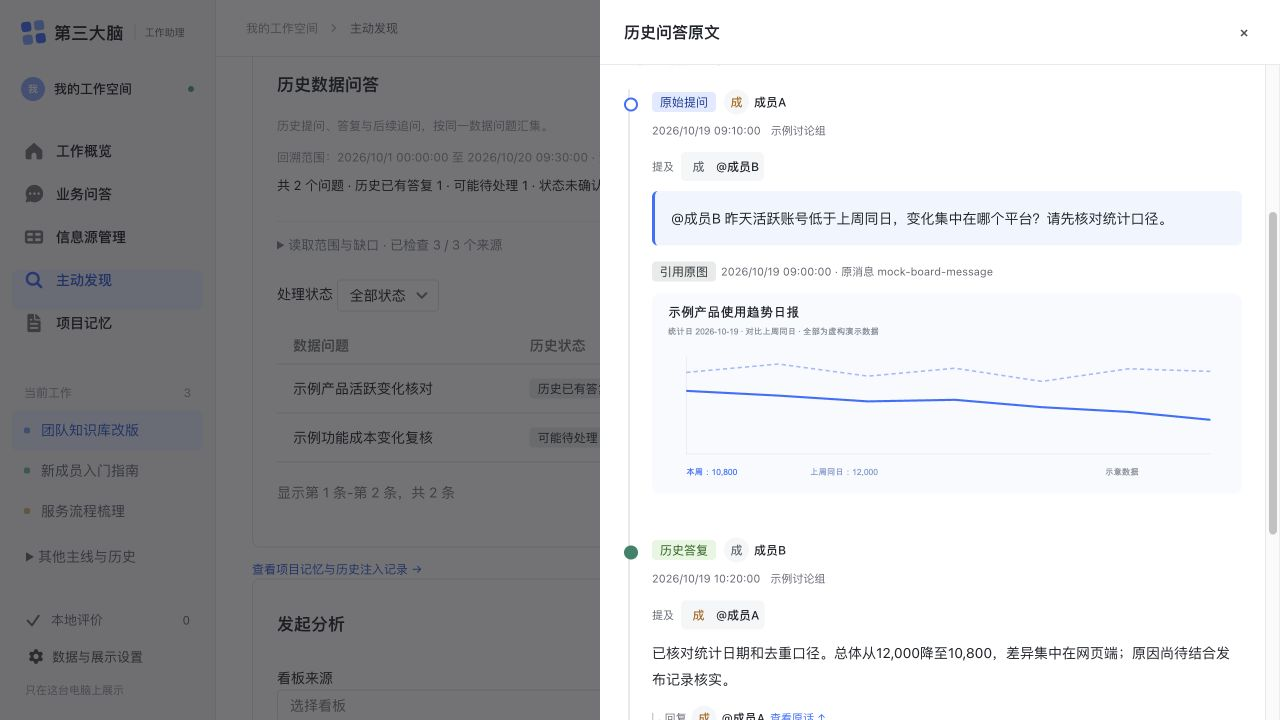
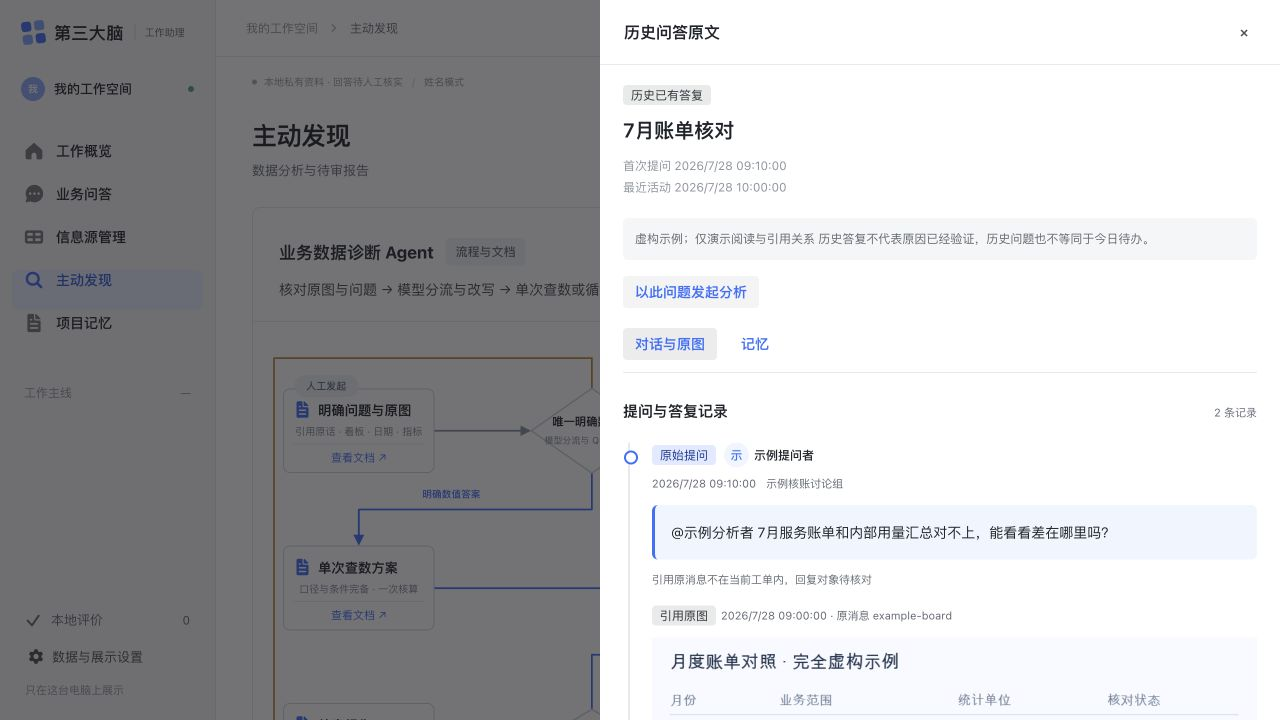
docs: explain work delegation and ticket memory with grounded examples

diff --git a/README.md b/README.md
@@ -4,17 +4,21 @@
 
 本仓库提供可独立安装的本地工作台。默认启动工作概览、业务问答、信息源管理、主动发现和项目记忆五个页面，采用与个人版一致的界面与通用运行引擎。每位安装者配置自己的授权、数据源和模型；仓库不包含维护者的业务记录。见[安装与能力范围](docs/WORKBENCH.md)。
 
-## 从什么问题出发
+## 为什么做第三大脑
 
-**事情推进到哪里了？这个指标为什么变了？** 答案经常跨越几次对话、一份交接文档、当天的看板图片和后来的回复。全量堆给模型会增加噪声和成本，只看近期卡片又会丢掉历史。
+我想让 AI 分身先承担反复查找、核对和整理已有信息的工作，把注意力留给需要本人判断和推进的事。选取 9 月一个自然周，从个人文档和办公聊天中识别出 **29 件新事项，其中 12 件（41.4%，约四成）**主要依赖已有事实、规则或数据。这些是第三大脑优先尝试承接的环节：查资料、对口径、整理进展并准备有依据的草稿；新的业务取舍与责任承诺留给人。
 
-第三大脑因此从一个全知的个人分身，收敛为两个具体角色：
+![一个自然周的29件事项：被动型12件、主动型9件、混合型8件](docs/assets/work-composition.png)
+
+样本包含 28 件他人提请和 1 件本人主动拆解。图中“主动／被动”指处理性质，与谁先发消息无关；**41.4% 是候选事项占比，不代表已实现自动化率或工时节省。** [查看分类口径](docs/product/work-composition.md)。
+
+**事情推进到哪里了？这个指标为什么变了？** 答案经常跨越几次对话、一份交接文档、当天的看板图片和后来的回复。第三大脑先把 AI 分身落到两个主要角色，并保留找人这个辅助入口：
 
 | 角色 | 交付 | 当前边界 |
 | --- | --- | --- |
 | 工作进展助理 PMO | 当前进展、跟进对象、卡点及待确认事项，逐项有依据 | 催办、对外发送和冲突裁决由用户确认 |
 | 数据诊断助理 DA | 明确查询、核对变化、按需下钻、形成待审报告 | 简单问题走短流程；归因需要事实，不能仅凭相关性断言 |
-| 找人和组织协作 | 谁负责、应找谁 | 依赖准确组织资料，暂不承诺完整覆盖 |
+| 辅助：找人和组织协作 | 谁负责、应找谁 | 依赖准确组织资料，暂不承诺完整覆盖 |
 
 ## 设计理念
 
@@ -38,9 +42,8 @@ flowchart TB
     D --> H[历史问数工单与分析上下文]
     H --> I[数据诊断 Agent]
     I --> J[待审报告与未解决项]
-    H --> K[有来源、版本和适用时间的项目 Memory]
+    H --> K[提取为七段方法卡：保留来源、版本和适用条件]
     K --> I
-    J -.用户核对后提炼候选经验.-> K
     E --> L[原文证据与已配置的归档入口]
 ```
 
@@ -54,32 +57,69 @@ flowchart TB
 
 数据诊断时，Agent在查证阶段完成标准Query改写、德普只读取数和结果核验；能回答原问题就形成待审报告，仍有可验证的假设则继续下钻，缺少口径或业务事实时请用户补充。最多三轮、三次查数，并受预算和权限限制。原话、引用原图、实际查询与结果分别保留。
 
-## 判断模型的分工
+## 当前模型与程序怎样分工
 
-个人原型中的三个判断节点使用火山方舟 System One API（beta），模型为 `doubao-seed-2-1-lite-260915`。
+公开版按安装者实际配置运行，不把个人实验中的模型切换当作默认接入能力。
 
-| 节点 | Decision负责 | 保留的边界 |
+| 环节 | 当前公开实现 | 保留的边界 |
 | --- | --- | --- |
-| Query分流 | 对象、指标、周期、比较和目标是否明确；简单/复杂/需补充 | 原模型继续改写Query；程序检查来源、日期和查询方案兼容性 |
-| 文档实质内容 | 已读正文有实质、为空白模板、还是覆盖不足 | 先检查授权与hash，不改变业务相关性准入，节选不足不判全文为空 |
-| Memory适用性 | 判断有限候选是否适用并排序，选择注入 | 来源授权、版本、时效、冲突和数量大小限制不可放宽 |
+| Query 分流与改写 | 诊断模型在同一轮规划中判断完整性、简单／复杂路线，并改写标准自然语言 Query | 程序检查引用对象、日期和已授权查询方案；缺必要条件就补充 |
+| 文档准入与更新 | 程序检查来源准入、授权、版本和正文哈希 | 没有默认启用独立 Decision 语义判空；读取失败不当作没有内容 |
+| Memory 召回 | 本地程序按方向、关键词和文本重合等线索筛选有限方法 | 来源、版本、时效、冲突和长度限制先行；当前没有独立 Decision 二次重排或向量检索 |
+| 查数与复核 | 只读工具返回实际结果，诊断模型检查能否回答原问题 | 报告仍有缺口时继续查证或找人补充，不能用高置信度替代证据 |
 
-群监听准入、主线关联与优先级、开放新主线发现、Loop完结判断、报告盲评、事实问答和生成模型未在这一轮切换。Decision失败不自动换模型。业务用户上传文档进入何种技能的分流不在本次范围。
+个人试验做过 Decision 等模型的影子对照；这些试验不代表每位安装者已经接入同样的模型。当前工单记忆提取使用 DeepSeek，记忆管理由第三大脑本地模块完成，具体见下文。
 
-## Memory 的复用路径
+## 从工单积累可复用的方法
+
+Memory 是给下一次分析准备的经验卡。模型从历史提问和答复中提炼“怎么回答”，第三大脑按方向保存、查找，并在相关问题中把方法带入 Query 改写与结果复核。历史金额、旧结论和当前数据分开，复用方法时仍要重新查本期数据。
+
+以完全虚构的案例说明：7 月核对某服务账单时，答复留下了对齐周期、拆分用量与单价、单列调整项的分析顺序。8 月再遇到同方向问题，就可以参考这个顺序，不必从一张白纸开始。
 
 ```mermaid
-flowchart LR
-    A[历史问题与实际交付] --> B[原文和确认反馈]
-    B --> C[候选口径、分析原则和日期事实]
-    C --> D[核验来源、版本、状态和生效时间]
-    D --> E[Decision判断当前问题适用性]
-    E --> F[带版本和哈希的参考Memory注入]
-    F --> G[下一次查询与报告]
-    G --> H[验证是否少追问、少调用且保持正确]
+flowchart TB
+    A[7月工单：提问与答复] --> B[DeepSeek 提取七段经验卡]
+    B --> C[第三大脑：本地分类保存]
+    D[8月：新的核账问题] --> E[第三大脑：查找相关方法]
+    C --> E
+    E --> F[带入 Query 改写与复核；重新查本期数据、形成报告]
+    M[Mem0：尚未接入] -.未来可替换部分管理与检索.-> C
+    classDef optional fill:#f5f5f5,stroke:#999,stroke-dasharray:5 5,color:#666
+    class M optional
 ```
 
-“收到”或“OK”不自动证明结论正确。历史数字不能当当前数字，后来答案不能泄漏到更早的回放。用户可查看项目Memory、依据和实际注入记录；从所有历史交付自动提炼可靠经验仍需继续验证。
+<details>
+<summary>展开一张七段 Memory：某服务每月账单核对（全部为虚构示例）</summary>
+
+**【原文】**
+
+提问者：“7 月服务账单和内部用量汇总对不上，差在哪里？”
+
+分析者：“先对齐结算周期和单位，再按资源类别核对用量、单价和费用。调整项单列，每项差异对应到凭据，未核实的先保留。”
+
+**【问题模式】** 同一服务的周期性账单核对：解释账单与内部用量汇总的差异。
+
+**【下次如何回答】**
+
+1. 对齐本期结算周期、服务范围和计费单位。
+2. 按相同资源类别核对用量、单价和费用。
+3. 单列折扣、冲正及跨月调整，区分已解释和待核实的差异。
+
+**【交付清单】** 可回查凭据的对照表，以及差异与缺失材料清单。
+
+**【适用条件】** 同一服务的周期核账，账单与用量能够对应。
+
+**【不能直接套用】** 不沿用 7 月金额、单价或差异原因；规则变化后先重核口径。
+
+**【仍需当前资料】** 8 月账单与用量明细、本期计费规则、调整记录。
+
+</details>
+
+这是上下文工程：给分析助手补上相关经验，而不是把上个月的答案当成这个月的结论。提取校验成功后自动生效；工单中可以查看本单产出、命中的方法和实际带入内容。当前提取由工单按钮触发，不是每次会话结束都会自动执行。
+
+**Mem0 在哪一环？当前没有接入。** 可以把模型想成“写经验卡的整理员”，把第三大脑本地模块想成“分类夹和目录”。现在两者已经负责抽取、保存、查找和注入；公开实现使用方向与关键词等线索召回，没有独立 Decision 重排或向量检索。将来若采用 Mem0，是替换部分记忆管理与检索模块的选项。
+
+已有周期方法对照入口可以展示有／无记忆的实际模型回答，但该入口指定带入上期记忆、未执行真实查数，只能比较方法，尚不能证明完整 Loop 的收益。见 [完整案例、实现分工与配置](docs/product/memory.md)。
 
 ## 产品界面
 
@@ -88,7 +128,7 @@ flowchart LR
 ![公开包默认工作台，无业务数据](docs/assets/installed-workbench.jpg)
 
 
-以下画面使用真实界面组件和完全虚构的 mock 数据截图；项目记忆更新于 2026 年 10 月 23 日，其余画面保留 10 月 21 日版本。项目、成员、看板曲线、查询结果、报告和记忆均为示意，没有连接办公数据、模型或查数服务。首次安装没有业务数据，显示空状态。主动发现、历史工单和 Memory 需要安装者配置自己的来源与存储，见[工作台配置](docs/WORKBENCH.md)。
+以下画面使用真实界面组件和完全虚构的 mock 数据截图；项目记忆与历史工单更新于 2026 年 10 月 24 日，其余画面保留 10 月 21 日版本。项目、成员、看板曲线、查询结果、报告和记忆均为示意，没有连接办公数据、模型或查数服务。首次安装没有业务数据，显示空状态。主动发现、历史工单和 Memory 需要安装者配置自己的来源与存储，见[工作台配置](docs/WORKBENCH.md)。
 
 ### 工作概览
 
@@ -134,6 +174,10 @@ flowchart LR
 
 ![项目记忆：七段经验卡、方向分类与折叠原文的虚构示例](docs/product/assets/screenshots/memory.png)
 
+工单里的「记忆」页把本单产出、相关方法与分析时实际带入的内容分开查看。下面仍为虚构案例，没有伪造模型回答或注入记录。
+
+![工单记忆：虚构7月核账工单产出的七段经验](docs/product/assets/screenshots/ticket-memory.png)
+
 [截图范围与数据说明](docs/product/screenshots.md)。
 
 ## 如何评估
@@ -165,7 +209,7 @@ flowchart LR
 - 新版问答与富文本证据回查，来源关注档位和最多10条主线的展示；
 - 可配置的看板日期快照、引用原图、历史工单与回复时间线；
 - 标准 Query、简单/复杂分流、只读查数、复核与有限循环、待审报告；
-- 版本化分析规范、Memory 列表、适用性筛选及实际注入记录。
+- 版本化分析规范、七段 Memory、方向筛选及实际注入记录。
 
 后面三项使用真实通用引擎，必须配置安装者自己的本地文件、已授权查数方案和可用 MCP/模型；安装和浏览不会自动执行收费分析或生成虚构结果。详见[工作台能力与配置](docs/WORKBENCH.md)。
 
@@ -225,9 +269,9 @@ npm start
 ## 隐私边界
 
 - `.env.local`、`.runtime/`、日志和本地数据均被 Git 忽略；
-- 本地凭证、消息与分析结果使用 AES-256-GCM 加密后落盘，文件权限限制为当前用户；
+- OAuth 凭证、导入消息及其分析结果在导入工作区使用 AES-256-GCM 加密；扩展工单、Memory、原图和刷新回执另存本地文件，当前不经过该加密存储，详见隐私说明；
 - 本地加密主要防止误上传和明文泄漏，不能抵御已经控制该电脑账户的恶意程序；
-- 点击“分析”意味着所选消息会发送至安装者配置的模型 API；不点击则不会调用模型；
+- 安装、打开页面和浏览缓存不会调用模型；显式分析、提取／更新 Memory 等操作会把所需资料发送至相应配置的模型 API；
 - 每人必须使用自己的 WPS OAuth 和模型 Key。严禁共用维护者或其他同事的办公凭证。
 
 详见 [隐私说明](docs/PRIVACY.md)。
@@ -260,6 +304,6 @@ npm run release:gate -- --denylist /absolute/private/denylist.txt
 
 ### 会邀与文档更新
 
-新增独立的资料刷新入口：会邀补充工作安排，参会人的私聊先进入监控候选；会后检查记录，已准入文档按版本及正文哈希更新，日报、周报的图片另存本地并记录识别覆盖。网页“来源”可加载本地回执并查看原图。未核实关联和未读图片会保留待处理状态。
+新增独立的资料刷新入口：会邀补充工作安排，参会人的私聊先进入监控候选；会后检查记录，已准入文档按版本及正文哈希更新，日报、周报的图片另存本地并记录识别覆盖。网页“信息源管理”可加载本地回执并查看原图。未核实关联和未读图片会保留待处理状态。
 
 见 [接入说明与验收边界](docs/product/calendar-document-context.md)。该入口需单独配置日历及云文档连接，默认不执行付费图片理解；原有 Alpha 群聊分析范围保持明确，不自动发布会议结论或 Memory。

diff --git a/docs/product/memory.md b/docs/product/memory.md
@@ -1,23 +1,111 @@
-# 工单记忆
+# 从工单留下下一次能用的经验
 
-把记忆想成一本按方向分隔的经验笔记：保留历史上怎样分析问题的方法，下一次遇到同方向或周期性问题时参考，再重新取得本期资料。
+Memory 在这里是一张“下次遇到类似问题，可以怎样回答”的经验卡。它把过去讨论中的分析顺序和适用条件留下来，把当时的金额、结论和待核对事项分开。后续问题可以借用方法，再重新查本期数据。
+
+**当前由 DeepSeek 按固定模板提取，第三大脑自己的本地模块负责保存、分类、查找和带入请求。Mem0 没有接入业务链路。** 可以把模型想成写卡片的整理员，把本地文件和查找程序想成分类夹与目录；当前这两部分已经能配合工作，不需要先安装 Mem0。
+
+## 一张经验卡是什么样
+
+下面用“某服务的 7 月、8 月账单核对”说明。对话、服务和步骤均为虚构示例，用来展示结构，不是历史工单的复述，也不代表已经执行过这次查询。
+
+<details>
+<summary>【原文】展开虚构的 7 月提问与答复</summary>
+
+**提问者：** 7 月服务账单和内部用量汇总对不上，能看看差在哪里吗？
+
+**分析者：** 我先统一结算月份、统计截止时间和计费单位，再按资源类别核对用量与单价。折扣、冲正和跨月调整单独列出，最后把每一项差异对应到凭据。尚未核实的项目先保留，不把差额直接当成漏记。
+
+原文作为依据保留；页面默认折叠，优先展示下面的方法。
+
+</details>
+
+### 【问题模式】
+
+同一服务每月需要把账单与内部用量汇总对齐，说明差异在哪里、哪些已解释、哪些仍需核实。
+
+### 【下次如何回答】
+
+1. 先对齐本期结算周期、截止时间、服务范围和计费单位，确认比较的是同一批数据。
+2. 按相同资源类别拆开用量、单价与费用，逐项建立对应关系。
+3. 将折扣、冲正和跨月调整分开核对，为差异标明依据，不从总额差异直接推断原因。
+4. 汇总已解释与未解释的差异，给出仍需补充的材料和下一步。
+
+### 【交付清单】
+
+- 一份可回查凭据的账单与用量对照表。
+- 一份区分“已解释”和“待核实”的差异清单。
+
+### 【适用条件】
+
+- 同一服务的周期性账单核对，且账单与用量能够对应。
+- 需要先解释核算差异，再讨论成本变化。
+
+### 【不能直接套用】
+
+- 不沿用 7 月的金额、单价、差异原因或“已经对齐”的结论。
+- 服务范围或计费规则变更时，先重新确认口径，不能直接照搬旧分类。
+
+### 【仍需当前资料】
+
+- 本期账单、用量明细与对应凭据。
+- 本期生效的计费规则，以及已发生的折扣、冲正和跨月调整。
+
+## 从 7 月用到 8 月，发生了什么
+
+8 月再问“这期账单为什么对不上”，系统先找同方向的经验。找到上面的卡片后，带入的是“先对齐周期和单位，再拆用量、单价和调整项”的方法，不是 7 月的答案。
 
 ```mermaid
 flowchart LR
- A[授权工单：提问、答复、引用原图] --> B[DeepSeek 整理七段经验卡]
- B --> C[来源与格式检查通过后自动生效]
- C --> D[按方向和问题找相关方法]
- D --> E[实际带入分析请求]
- E --> F[重新查本期数据并生成报告]
+    A[7 月工单：提问与答复] --> B[提取核账方法]
+    B --> C[按成本方向保存经验卡]
+    D[8 月问题与本期上下文] --> E[查找适用经验]
+    C --> E
+    E --> F[带入 Query 改写与结果复核]
+    G[8 月账单与当前口径] --> F
+    F --> H[在已授权范围查数并形成待审报告]
 ```
 
-七段固定为：原文、问题模式、下次如何回答、交付清单、适用条件、不能直接套用、仍需当前资料。原文默认折叠，方向包括成本核算与优化、指标监控与汇报、异常排查与口径，以及其他分析经验。方向辅助筛选，不授权访问新的数据源。
+这是一种上下文工程：让分析助手在需要时拿到少量、相关、有来源的方法。面对“成本为什么变化”这样更开放的问题，记忆可以帮助它提出查证顺序和缺失材料；当前原因仍需要新证据支持。
 
-成功提取且校验通过后自动成为可用方法，不需要人工逐条确认。格式不完整、引用不存在、来源撤销或调用状态不明时，不生成可用记忆。更新会保留旧版本；旧数值与当时事实不作为本期答案。Mem0 尚未接入实际业务，当前运行的是仓库内的本地模块，无需额外向量数据库。
+实际带入模型的参考块包含问题模式、所需输入、步骤、输出、适用边界和标准 Query 的参考结构。改写时再填入当前对象、统计周期、比较周期和已经核实的口径。该参考块作为 System Prompt 中的业务资料，不授予新工具或新查询权限；原图由上游模型理解，不表示原图已经上传给德普。
+
+## 现在是谁在做这些事
+
+| 环节 | 当前公开实现 |
+| --- | --- |
+| 读工单 | 沿已保存的提问、答复及明确的引用／回复关系读取；可加入已下载且核验过的原图 |
+| 抽取 | DeepSeek 按七段模板写经验卡，同时区分方法与当时事实 |
+| 保存和分类 | 第三大脑本地文件保存经验及版本；按成本、指标汇报、异常口径等方向组织 |
+| 召回 | 程序先检查来源、版本与时间，再按方向、关键词和文本重合线索排序，选取有限条目 |
+| 注入 | 每次分析请求前重新核验，将仍适用的方法带入 Query 改写及结果复核，保存实际带入内容 |
+| Mem0 | 未接入；当前包没有 Mem0 运行依赖，也没有业务读写或检索调用 |
+
+**本公开包的召回没有独立调用 Decision 做二次重排，也没有向量检索。** 方向分类能帮助浏览和初步查找，但不能保证理解所有同义表达或抽象问题。是否需要更强的召回，要用后续问题的测试集检验。
+
+将来如果采用 Mem0，可以考虑用它替换部分记忆管理与检索模块；七段结构、来源关联和本期数据核对仍需保留。这是可选设计，不是当前运行链路的一部分。
+
+```mermaid
+flowchart LR
+    A[现在：模型按七段写卡] --> B[现在：第三大脑本地保存与查找]
+    B --> C[现在：把方法带入分析请求]
+    B -. 可选替换部分管理与检索；尚未接入 .-> D[将来的 Mem0 接入方案]
+```
+
+## 在页面上怎么核对
+
+在历史工单的「记忆」页可以点击「提取／更新 Memory」。成功提取并通过来源、格式和引用检查后，方法自动生效，不再逐条等待人工确认；**这不等于每结束一次会话都会自动在后台提取**。没有可复用步骤时可以不生成记忆，失败或状态不明的输出不会变成可用方法。
+
+项目记忆页按方向展示经验卡，可以展开原文和原图、回到原工单。工单的「记忆」页将“本单产出”“找到的相关记忆”“分析时实际使用的记忆”分开显示。匹配不等于注入；有保存的实际带入内容并收到模型响应，才显示已使用。收到响应也不等于方法有效，仍要看最终回答。
+
+## 怎样验证它有没有帮助
+
+可用较早工单的记忆回答较晚、同方向的周期问题。比较有／无 Memory 时保持模型、原问题和当前证据一致，留出较晚工单后来的答复，避免提前看到答案。
+
+当前周期方法对照入口展示的是**指定带入上期记忆、没有执行查数工具的方法迁移试验**：它可以比较回答是否有更具体的分析顺序，不能证明自动召回准确，也不能证明账单已经核对完成或完整 Loop 成功率提高。完整 Loop 对照还需要同样的只读查数连接、本期数据与最终报告验收。
 
 ## 配置自己的数据
 
-在 `THIRD_BRAIN_WORKBENCH_CONFIG` 指定的仓库外文件中配置以下路径；所有路径都指向安装者自己的绝对路径，不能复制维护者数据。
+在 `THIRD_BRAIN_WORKBENCH_CONFIG` 指定的仓库外文件中配置以下路径；所有路径都指向安装者自己的绝对路径。
 
 | 字段 | 用途 |
 | --- | --- |
@@ -25,19 +113,13 @@ flowchart LR
 | attentionPath / questionContextsPath | 当前来源权限与消息引用关系 |
 | memoryPlaybooksPath | schemaVersion 为 memory-playbooks-v1 的存储；初始 records、cases 为空，builds 为空对象 |
 | memoryBuilderPath | DeepSeek 提取设置，见下文 |
-| memoryReusePath | 可用方法允许被哪些查数来源使用 |
-| memoryPeriodicTestPath / memoryEvaluationPath | 可选的已完成试验回执；不配置则不显示对照入口 |
+| memoryReusePath | 允许哪些查数来源参考这些方法 |
+| memoryPeriodicTestPath / memoryEvaluationPath | 可选的已完成试验记录；不配置则不显示对照入口 |
 
-提取设置版本为 `deepseek-ticket-memory/v1`，模型为 `deepseek-flash`，endpoint 为 `https://api.deepseek.com/chat/completions`。需提供 `ticketsPath`、`scopePath`、`attentionPath`、`messagesPath`、`originalsPath`、`mediaPath`、`seedPath`、`budgetDirectory`、`workDirectory` 和 `outputPath`。提取设置中的工单、授权、会话、输出路径须与工作台扩展配置一致。`outputPath` 必须位于仓库外的 `workDirectory` 内；原图必须已下载到本机并有来源绑定及哈希。数据契约可参考 `ticket-memory-builder.test.mjs` 的完全虚构样本。
+提取设置版本为 `deepseek-ticket-memory/v1`，模型为 `deepseek-flash`，endpoint 为 `https://api.deepseek.com/chat/completions`。需提供 `ticketsPath`、`scopePath`、`attentionPath`、`messagesPath`、`originalsPath`、`mediaPath`、`seedPath`、`budgetDirectory`、`workDirectory` 和 `outputPath`。提取设置中的工单、授权、会话、输出路径须与工作台扩展配置一致。`outputPath` 必须位于仓库外的 `workDirectory` 内；原图必须已下载到本机并有来源绑定及哈希。数据契约可参考工作台的 `ticket-memory-builder.test.mjs` 虚构样本。
 
 使用范围文件支持 `playbook-reuse-v2`：`enabledAt` 为启用时间，`autoActivate` 为 true，`sourceIds` 为允许参考这些方法的诊断来源 ID，`records` 为可选逐条配置，`disabledIds` 为停用项。自动生效不扩展查数来源或查询权限。原有 v1 逐条配置仍兼容。
 
-提取凭据读取安装者的 `DEEPSEEK_API_KEY`（环境变量或安装目录的 .env.local），不会读取维护者凭据文件。只有点击工单的「提取／更新 Memory」才触发该入口的模型请求，刷新页面不调用模型。提取与诊断可指向同一预算目录，共享每日上限；提取默认每日 10 元，图片理解阶段共享每日 2 元子上限。预算不足保留待处理。
+提取凭据读取安装者的 `DEEPSEEK_API_KEY`（环境变量或安装目录的 `.env.local`）。在页面中点击工单的「提取／更新 Memory」会触发提取请求，刷新页面不调用模型；也可由部署者显式运行提取脚本。提取与诊断可指向同一预算目录，共享每日上限；提取默认每日 10 元，图片理解阶段共享每日 2 元子上限。预算不足保留待处理。
 
-每次最多输入两张有明确引用关系的原图；临近但未确认的图片不参与提取。页面显示本轮读取和缺口。图片本地路径不直接暴露为前端地址。
-
-## 怎么判断有没有用
-
-记忆页面显示具体方法和对应工单；工单的「记忆」页分开显示本单产出、相关记忆，以及实际请求带入的正文。匹配不等于注入，只有保存了带入内容并收到提供商响应才显示已使用。
-
-周期方法对照可使用较早工单的记忆回答较晚问题，留出较晚工单的后续答复，保持模型、原问题和当前证据相同。无工具的方法迁移试验只比较分析思路，不能证明已完成查数或提高完整 Loop 成功率；完整 Loop 对照还需真实的只读查数连接及结果。
+每次最多输入两张有明确引用关系的原图；临近但未确认的图片不参与提取。页面显示本轮读取范围和缺口。图片本地路径不直接暴露为前端地址；更新记忆会保留旧版本。

diff --git a/docs/PRIVACY.md b/docs/PRIVACY.md
@@ -5,11 +5,11 @@
 - 维护者或测试用户的真实消息、文档、会议、人员关系、项目、群名和裁决；
 - App Key、Access Token、Refresh Token、OAuth code、Cookie、WPS_SID、模型 Key 和请求日志；
 - 私人飞书/WPS 文档、截图、附件、本机绝对路径和数据导出；
-- 围绕人物、项目或群聊组织的叙事型合成数据集。
+- 以真实人物、项目或群聊为映射、仅替换名称的叙事型合成数据集。
 
 个人版的私有仓库也不得依赖“private 权限”存档 API Key、OAuth 凭证、WPS SID、原始办公正文或运行时数据。私有仓库中只允许进入 Spec、代码、测试和待扫描的公开候选。
 
-测试只使用无业务叙事的最小不透明值；静态 Demo 只说明页面结构。
+测试使用最小虚构样本；功能示例使用独立编写的虚构对话和数据，不从真实原文替换人名生成。README 的事项分类图经本人授权，仅公开一个自然周的聚合数量与分类口径，不含原始事项、人员或业务明细。
 
 ## 每位安装者的本地边界
 
@@ -19,14 +19,14 @@
 - 本地密钥和密文位于同一账户下，主要防止误上传与磁盘明文泄漏，不抵御已控制本机账户的攻击者；
 - 卸载时删除 `.env.local` 和 `.runtime/` 即可删除本地配置与数据。
 
-独立的会邀／文档刷新入口另存于安装者显式选择、位于 checkout 外的私有目录。正文、图片及回执采用当前用户可读写的文件权限保存，**这部分目前是明文文件，并不经过 Alpha 的加密存储**。它不进入公开仓库；卸载和清理时还需处理该外部目录。
+扩展工单与 Memory、独立会邀／文档刷新结果另存于安装者显式选择、位于 checkout 外的私有目录。正文、图片及回执采用当前用户可读写的文件权限保存，**这部分目前是明文文件，并不经过 Alpha 的加密存储**。它不进入公开仓库；卸载和清理时还需处理该外部目录。
 
 ## 外部数据流
 
 - WPS OAuth 和消息读取只发往 WPS 官方域名；
 - 模型分析只发往安装者明确配置的 HTTPS 模型 API（或本机 loopback 地址）；
 - 没有维护者遥测、分析 SDK 或远程后端；
-- Alpha 群聊导入需点击分析才发送给模型。独立资料刷新默认不调用模型；只有用户在其配置中显式启用图片理解，才会在预算范围内向指定模型发送文档原图和局部上下文。
+- Alpha 群聊导入需点击分析才发送给模型。独立资料刷新默认不调用模型；只有用户在其配置中显式启用图片理解，才会在预算范围内向指定模型发送文档原图和局部上下文。工单「提取／更新 Memory」也会向所配置的 DeepSeek 发送选定工单上下文与已绑定原图；浏览已保存记忆不触发模型请求。
 
 ## Report to Issue
 

diff --git a/docs/product/screenshots.md b/docs/product/screenshots.md
@@ -1,17 +1,18 @@
 # 产品截图
 
-项目记忆截图更新于 2026 年 10 月 23 日，其余截图保留 10 月 21 日版本。所有内容为手工编写的 mock 数据，加载真实界面组件；未连接办公数据、模型或查数服务。公开版的可运行能力以 README 中「公开版 Alpha」为准。
+项目记忆、历史工单及工单记忆截图更新于 2026 年 10 月 24 日，其余截图保留 10 月 21 日版本。所有内容为手工编写的 mock 数据，加载真实界面组件；未连接办公数据、模型或查数服务。公开版的可运行能力以 README 中「公开版 Alpha」为准。
 
 | 页面 | 示意内容 |
 | --- | --- |
 | 工作概览 | 知识库、入门指南等虚构主线及优先级标签 |
 | 业务问答 | 示例问题、已有回答与依据入口 |
 | 依据原文 | 原始段落、人物提及和来源定位 |
-| 历史工单 | 成员 A／B 的提问、引用图、答复和追问 |
+| 历史工单 | 示例提问者／分析者的核账对话、引用图及最新记忆 Tab |
 | Agent 流程 | 唯一数值判断、单次查数、多轮分析、人工补充 |
 | 看板原图 | 虚构趋势图及分开的统计日和推送时间 |
 | 阶段报告 | 部分覆盖、未确认原因和下一步 |
 | 项目记忆 | 七段经验卡、方向分类、折叠原文；虚构示例，无实际模型注入 |
+| 工单记忆 | 本单产出与相关方法入口；虚构案例，无模型回答或注入记录 |
 
 图中的 12,000、10,800 和相关日期仅用于说明交互，不来自真实业务。示例身份不映射真实成员；没有真实文档链接。
 
@@ -24,8 +25,9 @@
[11 lines of base64/hex data omitted]

diff --git a/docs/product/work-composition.md b/docs/product/work-composition.md
@@ -1,0 +1,21 @@
+# 为什么做第三大脑
+
+我想让 AI 分身先承担那些反复查找、核对和整理已有信息的工作，把注意力留给需要本人判断和推进的事。一个问题的答案可能已经出现在聊天、文档或会议里，但找到它、核对版本、补齐上下文并组织成回复，仍然会消耗时间。
+
+选取 9 月一个自然周，从个人文档和办公聊天中识别出 29 件新事项。其中 12 件（41.4%，约四成）主要依赖已有事实、规则或数据，可以优先验证由 AI 承接；另外 9 件需要新的业务取舍或承诺，8 件同时包含两类环节。第三大脑从这里切入：让 AI 查资料、对口径、整理进展和准备有依据的草稿；新的业务判断与责任承诺留给人。
+
+![一个自然周的 29 件事项：事实查证 12 件、业务判断 9 件、混合处理 8 件](../assets/work-composition.png)
+
+这是一个自然周的事项样本，包含 28 件他人提请和 1 件本人主动拆解。**41.4% 是可以优先尝试 AI 承接的事项占比，不是已经实现的自动化率，也不是节省工时的比例。**
+
+## 如何理解这三类工作
+
+| 图中类别 | 划分依据 | 数量 |
+| --- | --- | --- |
+| 被动型（事实查证） | 根据已有事实、规则、数据或明确流程查证与处理 | 12 件，41.4% |
+| 主动型（业务判断） | 制定新方案、决定优先级、分配资源或作出新的承诺 | 9 件，31.0% |
+| 混合型（拆开处理） | 同时包含事实查找与新的业务判断，先拆开再分工 | 8 件，27.6% |
+
+“主动”和“被动”描述处理性质，与谁先发消息无关。别人提出的资源分配请求仍需要业务判断；本人主动发起的一次事实查询，也可以交给 AI 查证。事实查证不等于没有难度：AI 仍需要适用资料、可靠工具和完整上下文，遇到缺少依据或来源冲突时保留问题。
+
+典型的承接环节包括找到已有职责对应的联系人、核对指标定义与数据版本、汇总文档和项目进展，以及为回复准备有来源的草稿。混合型请求中，可以先把这些环节交给 AI，再由人完成判断。
